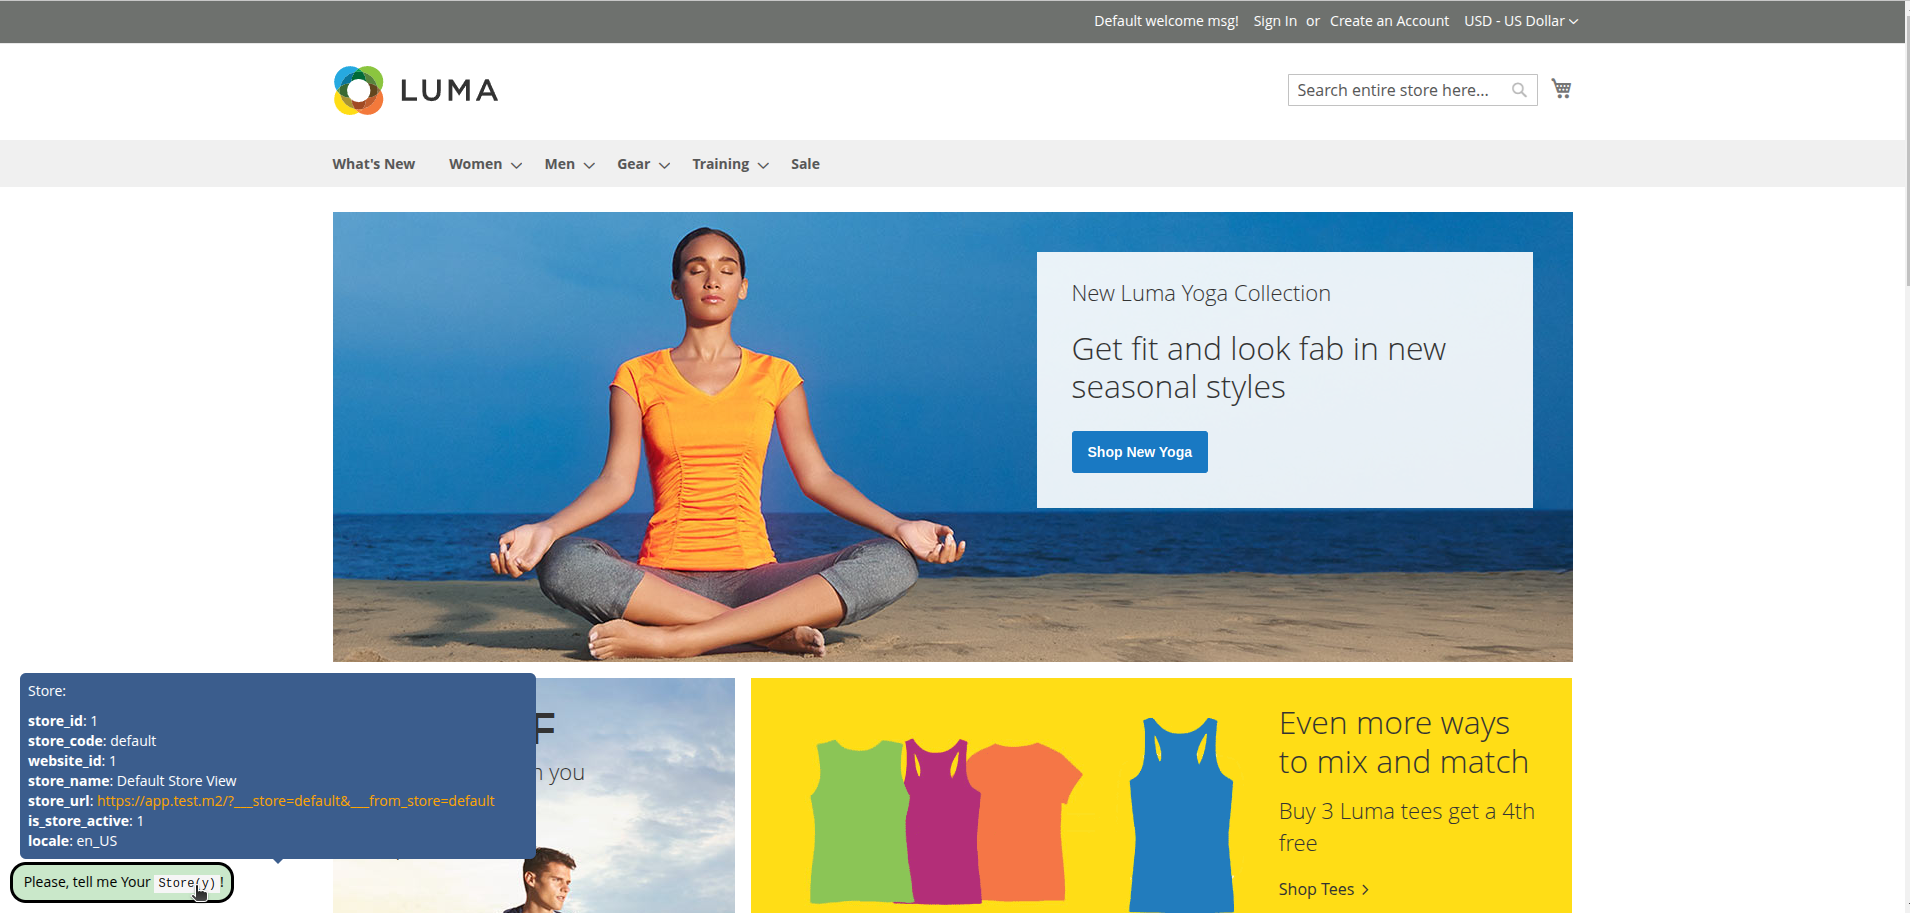
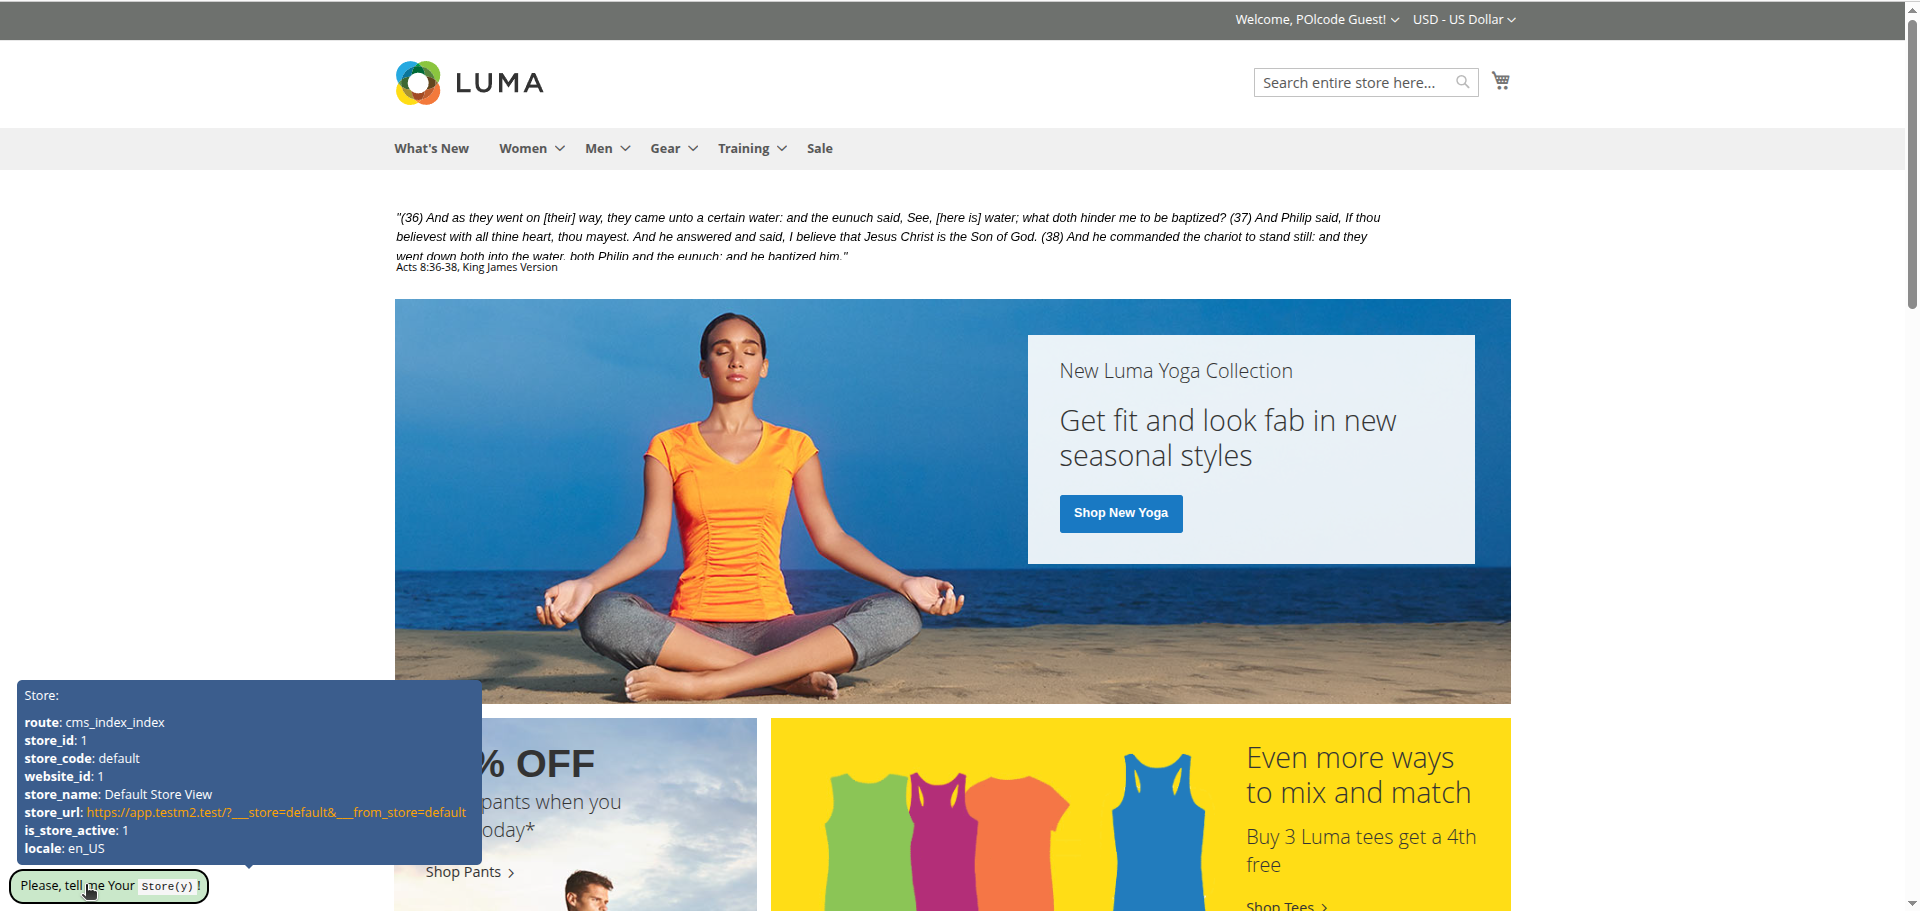
Features: SSL Check Create User Without Password - Neccessary Fixes

diff --git a/Model/Console/CustomerWithoutPassword/Create.php b/Model/Console/CustomerWithoutPassword/Create.php
@@ -16,6 +16,7 @@ use Magento\Store\Model\StoreManagerInterface;
 use Psr\Log\LoggerInterface;
 use Symfony\Component\Console\Input\InputArgument;
 use Symfony\Component\Console\Output\OutputInterface;
+use Magento\LoginAsCustomerAssistance\Model\SetAssistance;
 
 class Create extends Test
 {
@@ -29,7 +30,12 @@ class Create extends Test
 
     public const PREFIX = 'prefix';
 
-    public const MOBILE_PHONE = 'mobilephone';
+    public const IS_ASSISTANCE_ALLOWED = 'isassistance_allowed';
+
+    /**
+     * @var SetAssistance
+     */
+    private $setAssistance;
 
     /**
      * @var CustomerFactory
@@ -65,6 +71,7 @@ class Create extends Test
      * @inheritDoc
      */
     public function __construct(
+        SetAssistance $setAssistance,
         CustomerFactory $customerFactory,
         StoreManagerInterface $storeManager,
         CustomerRepositoryInterface $customerRepository,
@@ -72,6 +79,7 @@ class Create extends Test
         EmailNotificationInterface $emailNotification,
         LoggerInterface $logger
     ) {
+        $this->setAssistance = $setAssistance;
         $this->customerFactory = $customerFactory;
         $this->storeManager = $storeManager;
         $this->customerRepository = $customerRepository;
@@ -106,10 +114,7 @@ class Create extends Test
         if (empty($lastName)) {
             throw new LocalizedException(__('Write last name first.'));
         }
-        $mobilePhone = $input[self::MOBILE_PHONE];
-        if (empty($mobilePhone)) {
-            throw new LocalizedException(__('Write mobile phone first.'));
-        }
+        $isAssistanceAllowed = $input[self::IS_ASSISTANCE_ALLOWED] ?? null;
         $this->output = $output;
         try {
             $store = $this->storeManager->getStore($storeId);
@@ -124,13 +129,17 @@ class Create extends Test
                 ->setPrefix($prefix)
                 ->setFirstname($firstName)
                 ->setLastname($lastName);
+            /** @var \Magento\Customer\Api\Data\CustomerExtension $extensionAttributes */
             $extensionAttributes = $customerDataModel->getExtensionAttributes();
             if (!$extensionAttributes) {
                 $extensionAttributes = $this->customerExtensionFactory->create();
             }
-            $extensionAttributes->setMobilePhone($mobilePhone);
+            $extensionAttributes->setAssistanceAllowed($isAssistanceAllowed);
             $customerDataModel->setExtensionAttributes($extensionAttributes);
             $customerDataModel = $this->customerRepository->save($customerDataModel);
+            if ($isAssistanceAllowed) {
+                $this->setAssistance->execute((int)$customerDataModel->getId(), true);
+            }
             $this->emailNotification->newAccount(
                 $customerDataModel,
                 EmailNotificationInterface::NEW_ACCOUNT_EMAIL_REGISTERED_NO_PASSWORD,
@@ -186,9 +195,9 @@ class Create extends Test
                 'default' => null
             ],
             [
-                'name' => self::MOBILE_PHONE,
-                'mode' => InputArgument::REQUIRED,
-                'description' => (string)__('Mobile Phone'),
+                'name' => self::IS_ASSISTANCE_ALLOWED,
+                'mode' => InputArgument::OPTIONAL,
+                'description' => (string)__('Is Assistance Allowed (type \'1\' if true)'),
                 'default' => null
             ]
         ];

diff --git a/Model/Console/SslCertificates/Check.php b/Model/Console/SslCertificates/Check.php
@@ -130,7 +130,7 @@ class Check extends Test
     {
         try {
             $rootDir = $this->filesystem->getDirectoryRead(DirectoryList::ROOT)->getAbsolutePath();
-            $rootDir .= 'vendor/jaroslawzielinski/diagnostics-m2/';
+            $rootDir .= 'vendor/jaroslawzielinski/diagnostics-m2/scripts';
             $result = $this->state->emulateAreaCode(Area::AREA_ADMINHTML, [$this, 'commandLine'], [$rootDir]);
             $this->logger->info('SSL Certificates Check', $result);
         } catch (\Exception|LocalizedException $e) {

diff --git a/README.md b/README.md
@@ -562,7 +562,16 @@ Modify Your Vendor/Diagnostics module, add Your code there, use X Debug and...
 ## ...Enjoy Your coding!
 
 ## One more usefull feature for Multistore
-A little helper saying store details. Feature helping to acknowlege the Store parameters like name, id, code, locale and others.
+A little helper saying store details. Feature helping to acknowlege the Store parameters like route, name, id, code, locale and others.
+Available indicators:
+* route (&lt;route name&gt;&lowbar;&lt;controller name&gt;&lowbar;&lt;action name&gt;)
+* store_id
+* store_code
+* website_id
+* store_name
+* store_url
+* is_store_active
+* locale
 
 ### Backend Configuration
 ![](docs/store_teller_admin_panel.png)
